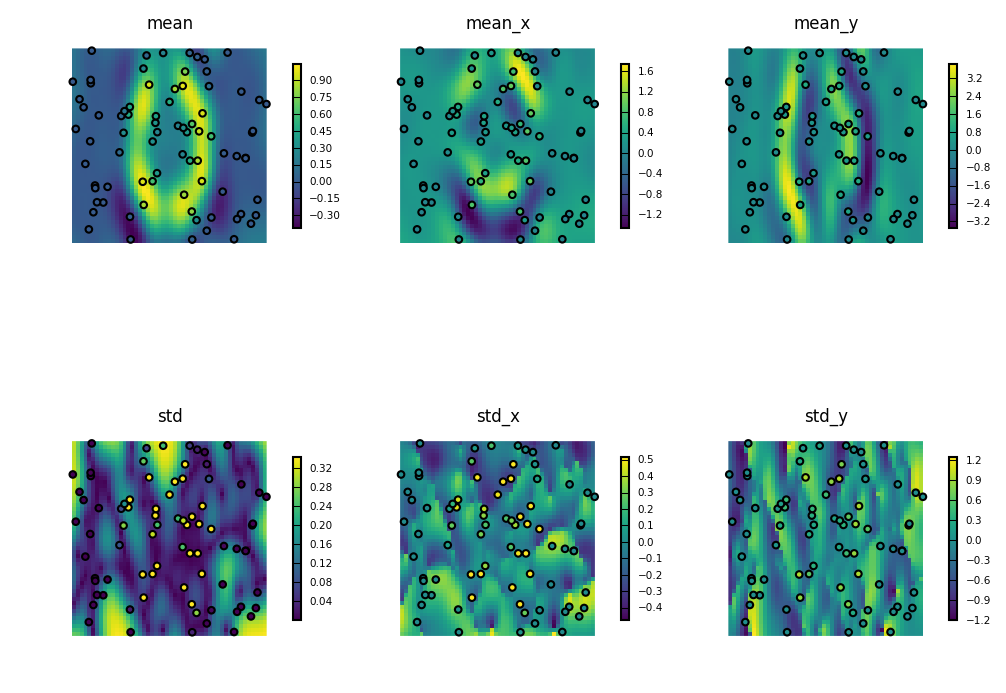
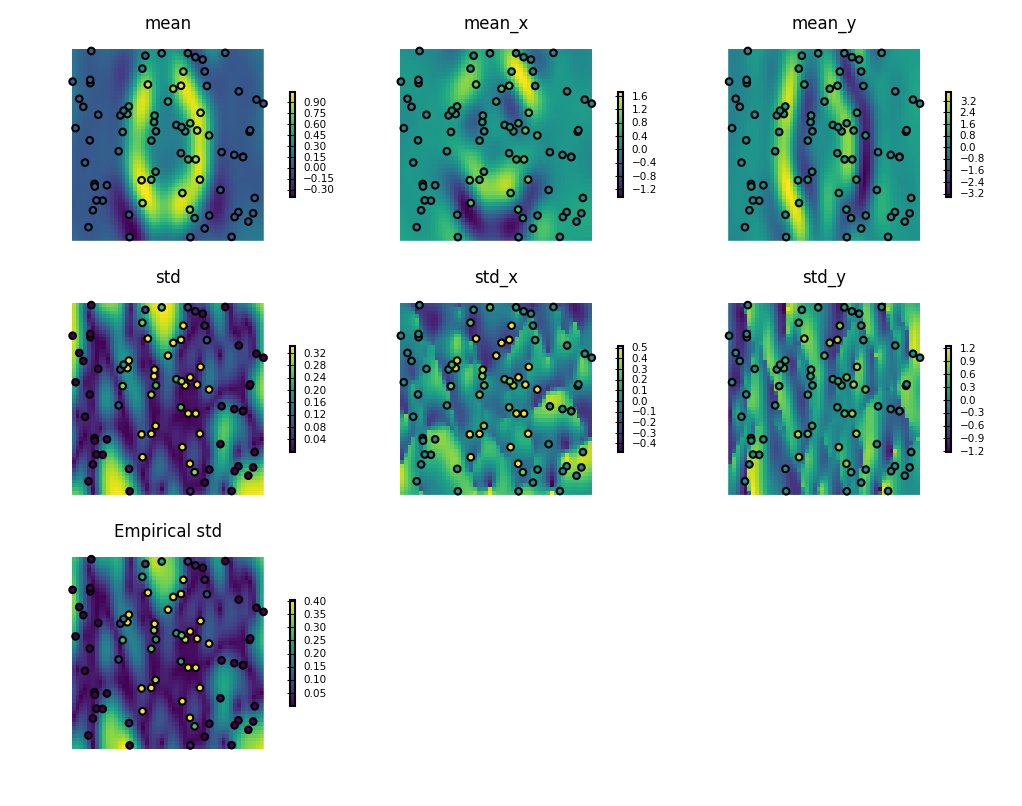
Make sample a generator and plot empirical standard deviation

diff --git a/gaussian_process/gp.py b/gaussian_process/gp.py
@@ -232,11 +232,11 @@ class GaussianProcess:
 
         return self._mean_y + current_cov @ self._sigma_inv_times_centered_y
 
-    def sample(self, x):
+    def sample_generator(self, x):
         """Sample a Gaussian process on x
 
-        :param x: parameter where to sample the Gaussian process
-        :return: a sample from the Gaussian process
+        :param x: parameter where to sample_generator the Gaussian process
+        :return: a sample_generator from the Gaussian process
         """
 
         assert isinstance(x, list)
@@ -253,10 +253,11 @@ class GaussianProcess:
         d[d < FUZZ] = FUZZ
         d_sqrt = np.sqrt(d)
 
-        sample = np.random.normal(loc=0, scale=1, size=len(x))
-        sample = mean + u@np.diag(d_sqrt)@sample
+        while True:
+            sample = np.random.normal(loc=0, scale=1, size=len(x))
+            sample = mean + u@np.diag(d_sqrt)@sample
 
-        return sample
+            yield sample
 
     def sigma(self, x, derivative=False, i=None):
         """Compute the conditional variance of the Gaussian process
@@ -350,9 +351,12 @@ class GaussianProcess1d(GaussianProcess):
         assert isinstance(list_x, list)
 
         mean, sigma = self._estimate_gp(list_x)
+        sample_generator = self.sample_generator(list_x)
 
         for _ in range(n_samples):
-            plt.plot(list_x, self.sample(list_x), color='black', linewidth='1')
+            plt.plot(
+                list_x, next(sample_generator), color='black', linewidth='1'
+            )
         if confidence_band:
             plt.plot(list_x, mean + 2*np.sqrt(sigma), color='g',
                      linewidth='2')
@@ -470,7 +474,7 @@ class GaussianProcess2d(GaussianProcess):
         x = [x[0] for x in self.list_observations]
         y = [x[1] for x in self.list_observations]
 
-        fig, axs = plt.subplots(2, 3)
+        fig, axs = plt.subplots(3, 3)
         ordered_plot = np.sort(list(result.keys()))
         for result_key, ax in zip(ordered_plot, axs.ravel()):
             self._plot_data(
@@ -480,3 +484,24 @@ class GaussianProcess2d(GaussianProcess):
                 ymin=list_y[0], ymax=list_y[-1],
                 title=result_key
             )
+        # Plot the empirical standard deviation
+        full_list_tuple = [(x, y) for x in list_x for y in list_y]
+        sample_generator = self.sample_generator(full_list_tuple)
+        samples = []
+        for i in range(50):
+            current_sample = next(sample_generator)
+            current_sample = np.reshape(
+                current_sample, (len(list_x), len(list_y))
+            )
+            samples.append(current_sample)
+        samples = np.array(samples)
+        std_empirical = np.std(samples, axis=0)
+        self._plot_data(
+            fig, axs[2, 0],
+            img=std_empirical, x=x, y=y,
+            xmin=list_x[0], xmax=list_x[-1],
+            ymin=list_y[0], ymax=list_y[-1],
+            title='Empirical std'
+        )
+        axs[2, 1].set_axis_off()
+        axs[2, 2].set_axis_off()

diff --git a/README.md b/README.md
@@ -72,12 +72,13 @@ Here is the result of the regression using a squared exponential covariance func
 
 From left to right, and top to bottom: mean of the Gaussian process, derivative along the first axis of the mean, derivative along 
 the second axis of the mean, standard deviation of the Gaussian process, derivative along the first axis of the standard deviation, derivative along 
-the second axis of the standard deviation.
+the second axis of the standard deviation, empirical standard deviation using 50 samples of the 2D Gaussian process. The fact that the analytical
+standard deviation and the empirical one look similar is a good sanity check to make sure the standard deviation and the samples are correctly computed.
 
 We also computed the empirical derivative of the mean and standard deviation using `np.gradient` to check
 the sanity of our results:
 
-<img src="https://github.com/matthieule/gaussian_process_regression/blob/master/figures/2d_estimation_empricial_derivative.png" alt="alt text" width=1200px>
+<img src="https://github.com/matthieule/gaussian_process_regression/blob/master/figures/2d_estimation_empirical.png" alt="alt text" width=1200px>
 
 All the pictures from this example (except the last one ;)) can be reproduced by running
 
